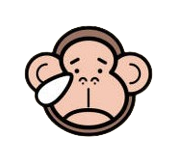
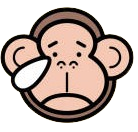
lagt till apa + text för att förtydliga om svaret var rätt eller fel

diff --git a/MuteMate.Client/src/components/monkeyReaction.jsx b/MuteMate.Client/src/components/monkeyReaction.jsx
@@ -1,0 +1,37 @@
+import React from "react";
+import happyMonkey from "../images/happyMonkey.png";
+import sadMonkey from "../images/sadMonkey.png";
+import disappointedMonkey from "../images/disappointedMonkey.png";
+import contentMonkey from "../images/contentMonkey.png";
+import angryMonkey from "../images/angryMonkey.png";
+
+function MonkeyReaction({ isCorrect }) {
+  console.log("Rendering MonkeyReaction with isCorrect:", isCorrect);
+
+  if (isCorrect === null) {
+    return null; // Om inget svar är valt så visas inget
+  }
+
+  const happyMonkeys = [happyMonkey, contentMonkey];
+
+  const sadMonkeys = [sadMonkey, disappointedMonkey, angryMonkey];
+
+  const monkeyImage = isCorrect
+    ? happyMonkeys[Math.floor(Math.random() * happyMonkeys.length)]
+    : sadMonkeys[Math.floor(Math.random() * sadMonkeys.length)];
+
+  const message = isCorrect ? "Right!" : "Wrong!";
+const messageClass = isCorrect ? "correct-text" : "incorrect-text"; 
+  return (
+    <div className="monkey-reaction-container">
+      <h2 className={`monkey-answer-text ${messageClass}`}>{message}</h2>
+      <img
+        src={monkeyImage}
+        alt={isCorrect ? "Happy Monkey" : "Sad Monkey"}
+        className="monkey-reaction-image"
+      />
+    </div>
+  );
+}
+
+export default MonkeyReaction;

diff --git a/MuteMate.Client/src/components/quizComponent.jsx b/MuteMate.Client/src/components/quizComponent.jsx
@@ -4,6 +4,7 @@ import { ENDPOINTS } from "../api/apiEndpoints";
 import useFetchQuestions from "../hooks/useFetchQuestions";
 import "../Styles/quiz.css";
 import Result from "./result";
+import MonkeyReaction from "./monkeyReaction";
 
 function QuizComponent({ category }) {
   const [currentQuestion, setCurrentQuestion] = useState({});
@@ -170,13 +171,19 @@ function QuizComponent({ category }) {
               <p>No answers available</p>
             )}
           </div>
-          <button
-            className="submit-btn"
-            disabled={submitBtn}
-            onClick={handleNextQuestionClick}
-          >
-            Next question
-          </button>
+          <div className="submit-answer-wrapper">
+            <button
+              className="submit-btn"
+              disabled={submitBtn}
+              onClick={handleNextQuestionClick}
+            >
+              Next question
+            </button>
+            <div className="monkey-answer-reaction">
+              <h2 className="monkey-answer-text"></h2>
+              <MonkeyReaction isCorrect={selectedAnswer} />
+            </div>
+          </div>
         </>
       )}
     </div>

diff --git a/MuteMate.Client/src/Styles/quiz.css b/MuteMate.Client/src/Styles/quiz.css
@@ -96,7 +96,36 @@
     text-align: center;
     text-decoration: underline;
   }
+   .monkey-reaction-image {
+  width: 50px;
+  height: auto;
+  margin:0;
 }
+.submit-answer-wrapper{
+  display: flex;
+  align-items: center; 
+  gap: 10px; 
+}
+.monkey-answer-reaction {
+  display: flex;
+  align-items: center;
+  width: 30px;
+  height: auto;
+  margin:0;
+}
+.correct-text {
+  color: green;
+  font-size: 1rem;
+  margin:0;
+}
+
+.incorrect-text {
+  color: red;
+  font-size: 1rem;
+  margin:0;
+}
+}
+
 
 /* Tablet Screens */
 @media (min-width: 400px) {
@@ -292,6 +321,28 @@
     font-size: 70px;
     text-decoration: underline;
   }
+  .monkey-reaction-image {
+  width: 80px;
+  height: auto;
+}
+.submit-answer-wrapper{
+  display: flex;
+  align-items: center; 
+  gap: 10px; 
+}
+.monkey-answer-reaction {
+  display: flex;
+  align-items: center;
+  width: 80px;
+  height: auto;
+}
+.correct-text {
+  color: green;
+}
+
+.incorrect-text {
+  color: red;
+}
 }
 
 /* For screens between 845px and 1200px */
